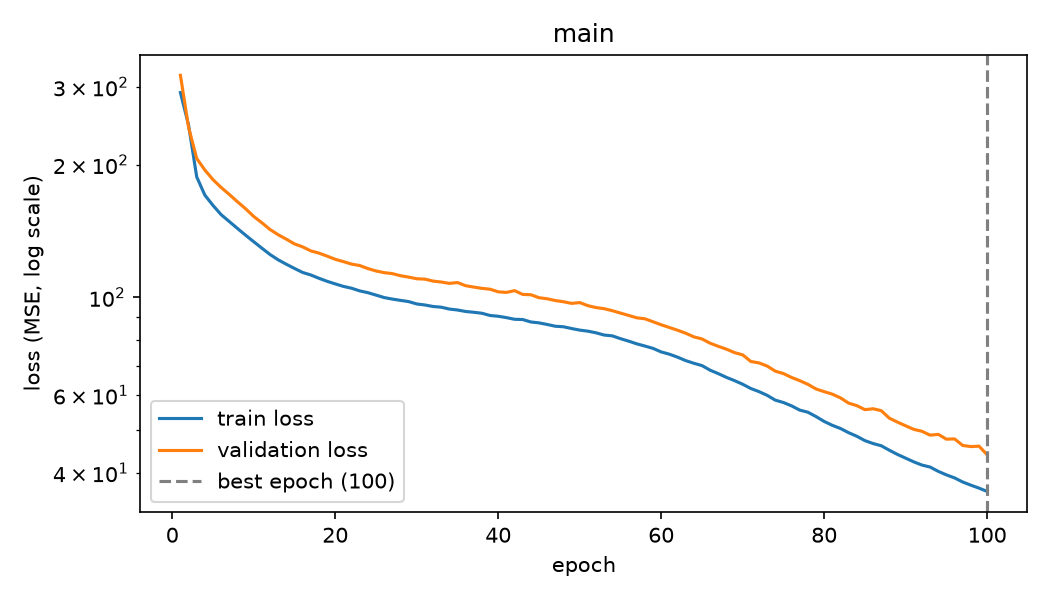
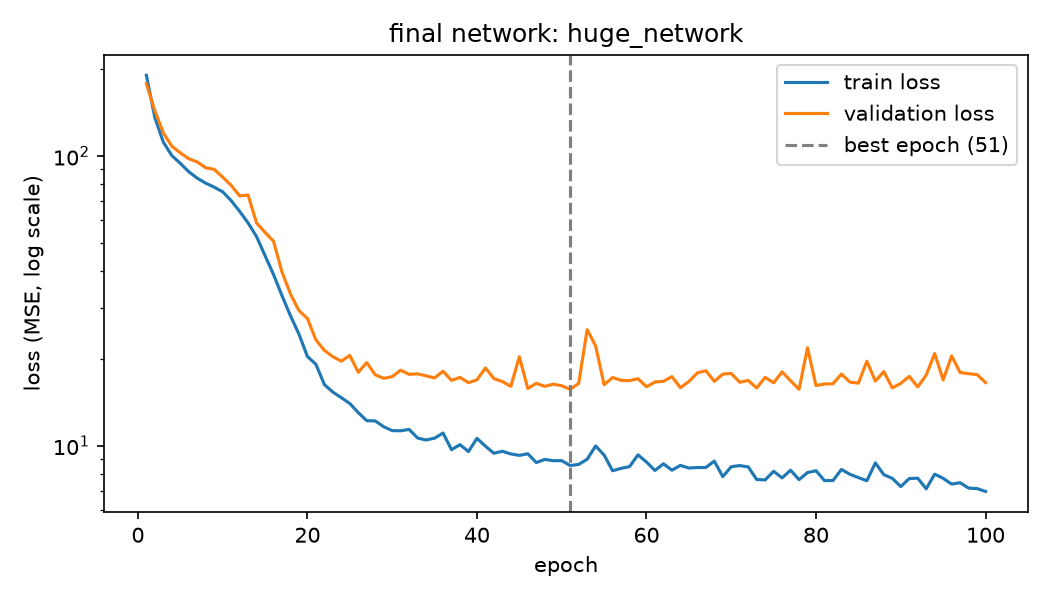
Choose final network on validation, add tests

diff --git a/train.py b/train.py
@@ -128,7 +128,6 @@ def main():
     X, y = data
     metrics = {}
 
-    # baselines, fitted on train rows only
     baselines = {"mean": DummyRegressor(strategy="mean"), "linear": LinearRegression()}
     for name, base in baselines.items():
         base.fit(X["train"], y["train"])
@@ -137,8 +136,7 @@ def main():
             "test_mae": float(mean_absolute_error(y["test"], base.predict(X["test"]))),
         }
 
-    rows = []
-    main_model, main_test_loader, main_history = None, None, None
+    rows, results = [], {}
     for name, settings in RUNS.items():
         model, history, test_loader = run_experiment(data, **settings)
         df = pd.DataFrame(history)
@@ -153,18 +151,21 @@ def main():
                 "final_val_loss": round(float(df["val_loss"].iloc[-1]), 3),
             }
         )
-        curve_file = "learning_curves.png" if name == "main" else f"curves_{name}.png"
-        plot_curves(history, REPORTS / curve_file, name)
-        if name == "main":
-            main_model, main_test_loader, main_history = model, test_loader, df
+        plot_curves(history, REPORTS / f"curves_{name}.png", name)
+        results[name] = (model, test_loader, df)
 
-    main_history.to_csv(REPORTS / "history.csv", index=False)
+    # the final network is chosen on validation MAE only
+    final = min(rows, key=lambda r: r["best_val_mae"])["run"]
+    final_model, final_test_loader, final_df = results[final]
+    plot_curves(final_df, REPORTS / "learning_curves.png", f"final network: {final}")
+    final_df.to_csv(REPORTS / "history.csv", index=False)
     pd.DataFrame(rows).to_csv(REPORTS / "experiments.csv", index=False)
 
-    # the test rows are used once, for the main run only
-    test_loss, test_mae = run_epoch(main_model, main_test_loader, nn.MSELoss())
-    best_row = main_history.loc[main_history["val_loss"].idxmin()]
+    # the test rows are used once, for the chosen network only
+    test_loss, test_mae = run_epoch(final_model, final_test_loader, nn.MSELoss())
+    best_row = final_df.loc[final_df["val_loss"].idxmin()]
     metrics["network"] = {
+        "run": final,
         "val_mae": float(best_row["val_mae"]),
         "test_mae": float(test_mae),
         "test_loss": float(test_loss),

diff --git a/tests/test_prepare.py b/tests/test_prepare.py
@@ -1,0 +1,50 @@
+import numpy as np
+import torch
+
+from bikes_data import TARGET, make_rentals
+from prepare import BikeDataset, make_loaders, make_preprocessor
+
+
+def _dataset(train):
+    pre = make_preprocessor().fit(train)
+    return BikeDataset(pre.transform(train), train[TARGET].to_numpy())
+
+
+def test_dataset_returns_float32_tensors(splits):
+    train = splits[0]
+    ds = _dataset(train)
+    x0, y0 = ds[0]
+    assert len(ds) == len(train)
+    assert x0.dtype == torch.float32 and y0.dtype == torch.float32
+    assert x0.shape == (8,) and y0.shape == ()
+
+
+def test_splits_have_right_sizes_and_do_not_overlap(splits):
+    train, val, test = splits
+    assert (len(train), len(val), len(test)) == (3600, 1200, 1200)
+    assert len(train) + len(val) + len(test) == len(make_rentals())
+    assert not set(train.index) & set(val.index)
+    assert not set(train.index) & set(test.index)
+    assert not set(val.index) & set(test.index)
+
+
+def test_scaler_is_fitted_on_train_only(splits):
+    train, val, _ = splits
+    pre = make_preprocessor().fit(train)
+    train_mean = pre.transform(train)[:, :4].mean(axis=0)
+    val_mean = pre.transform(val)[:, :4].mean(axis=0)
+    assert np.allclose(train_mean, 0, atol=1e-6)
+    assert not np.allclose(val_mean, 0, atol=1e-6)
+
+
+def test_train_loader_shuffles_and_is_repeatable(splits):
+    ds = _dataset(splits[0])
+
+    def first_targets(seed):
+        loader = make_loaders(ds, ds, ds, batch_size=32, seed=seed)[0]
+        return next(iter(loader))[1]
+
+    a, b, c = first_targets(1), first_targets(1), first_targets(2)
+    assert torch.equal(a, b)
+    assert not torch.equal(a, c)
+    assert not torch.equal(a, ds.y[:32])

diff --git a/tests/test_train.py b/tests/test_train.py
@@ -1,0 +1,43 @@
+import pytest
+import torch
+from torch import nn
+from torch.utils.data import DataLoader, TensorDataset
+
+from model import BikeNet
+from train import fit, run_epoch
+
+
+def _loader(small_batch, batch_size=32):
+    return DataLoader(TensorDataset(*small_batch), batch_size=batch_size)
+
+
+def test_loop_can_memorize_one_batch(small_batch):
+    loader = _loader(small_batch)
+    model = BikeNet(hidden=64)
+    optimizer = torch.optim.Adam(model.parameters(), lr=0.01)
+    loss_fn = nn.MSELoss()
+    first, _ = run_epoch(model, loader, loss_fn, optimizer)
+    for _ in range(300):
+        last, _ = run_epoch(model, loader, loss_fn, optimizer)
+    assert last < 0.05 * first
+
+
+def test_measuring_epoch_leaves_weights_unchanged(small_batch):
+    loader = _loader(small_batch)
+    model = BikeNet()
+    before = {k: v.clone() for k, v in model.state_dict().items()}
+    run_epoch(model, loader, nn.MSELoss())
+    for name, value in model.state_dict().items():
+        assert torch.equal(before[name], value), name
+
+
+def test_fit_logs_every_epoch_and_restores_best_weights(small_batch):
+    loader = _loader(small_batch, batch_size=16)
+    model = BikeNet(hidden=16)
+    optimizer = torch.optim.Adam(model.parameters(), lr=0.01)
+    history = fit(model, loader, loader, nn.MSELoss(), optimizer, epochs=5)
+    assert len(history) == 5
+    assert set(history[0]) == {"epoch", "train_loss", "val_loss", "val_mae"}
+    best = min(row["val_loss"] for row in history)
+    val_loss, _ = run_epoch(model, loader, nn.MSELoss())
+    assert val_loss == pytest.approx(best)

diff --git a/tests/test_model.py b/tests/test_model.py
@@ -1,0 +1,24 @@
+import pytest
+import torch
+from torch import nn
+
+from model import BikeNet
+
+
+@pytest.mark.parametrize("hidden", [4, 32, 128])
+def test_network_returns_one_value_per_row(hidden):
+    model = BikeNet(n_inputs=8, hidden=hidden)
+    assert model(torch.zeros(5, 8)).shape == (5,)
+
+
+def test_one_step_changes_every_layer(small_batch):
+    X, y = small_batch
+    model = BikeNet()
+    before = {k: v.clone() for k, v in model.state_dict().items()}
+    optimizer = torch.optim.Adam(model.parameters(), lr=0.01)
+    loss = nn.MSELoss()(model(X), y)
+    optimizer.zero_grad()
+    loss.backward()
+    optimizer.step()
+    for name, value in model.state_dict().items():
+        assert not torch.equal(before[name], value), name

diff --git a/tests/conftest.py b/tests/conftest.py
@@ -1,0 +1,16 @@
+import pytest
+import torch
+
+from bikes_data import make_rentals
+from prepare import split_frame
+
+
+@pytest.fixture(scope="session")
+def splits():
+    return split_frame(make_rentals())
+
+
+@pytest.fixture()
+def small_batch():
+    torch.manual_seed(0)
+    return torch.randn(32, 8), torch.rand(32) * 20
